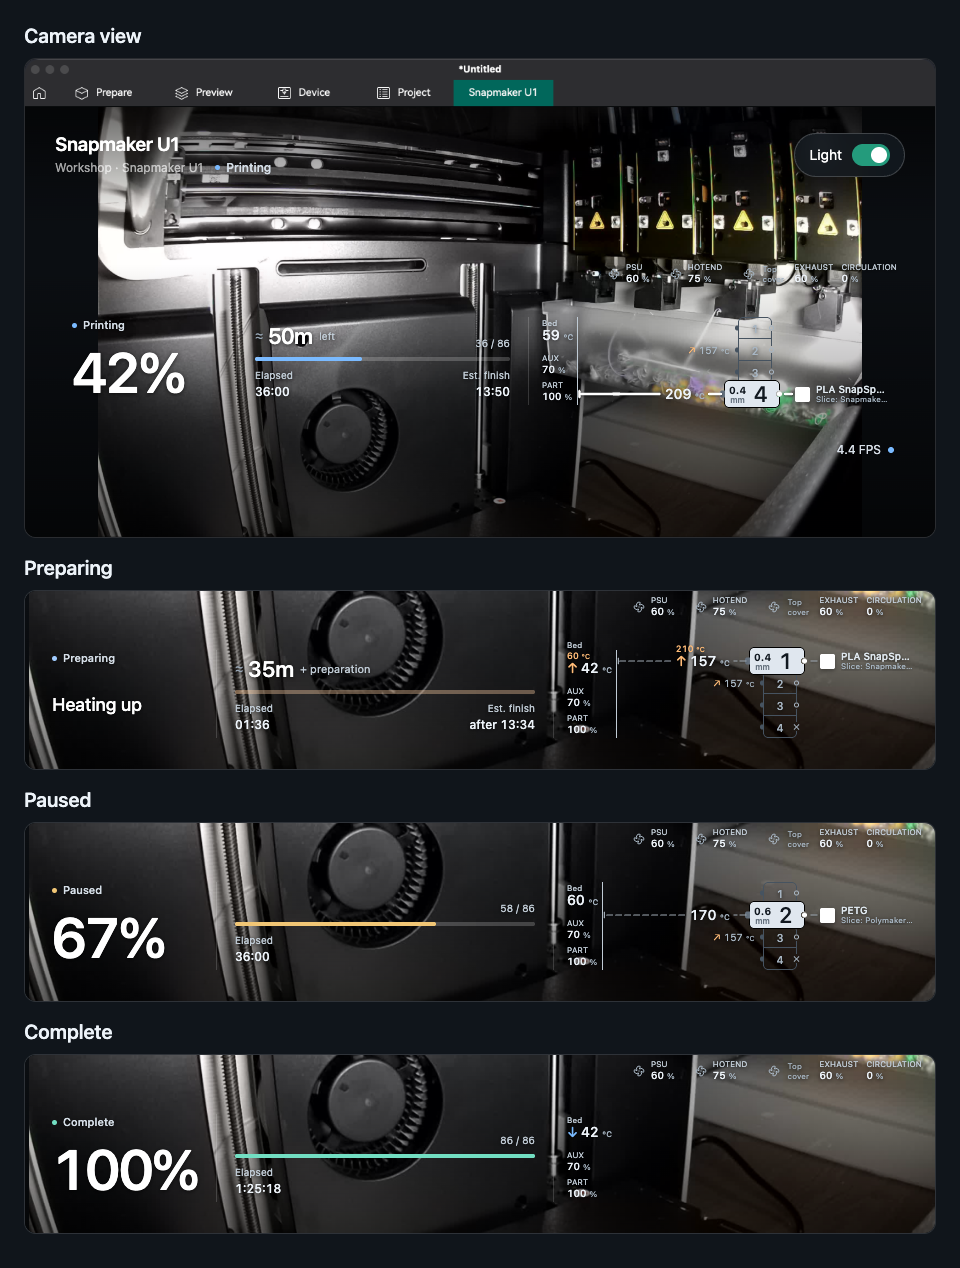
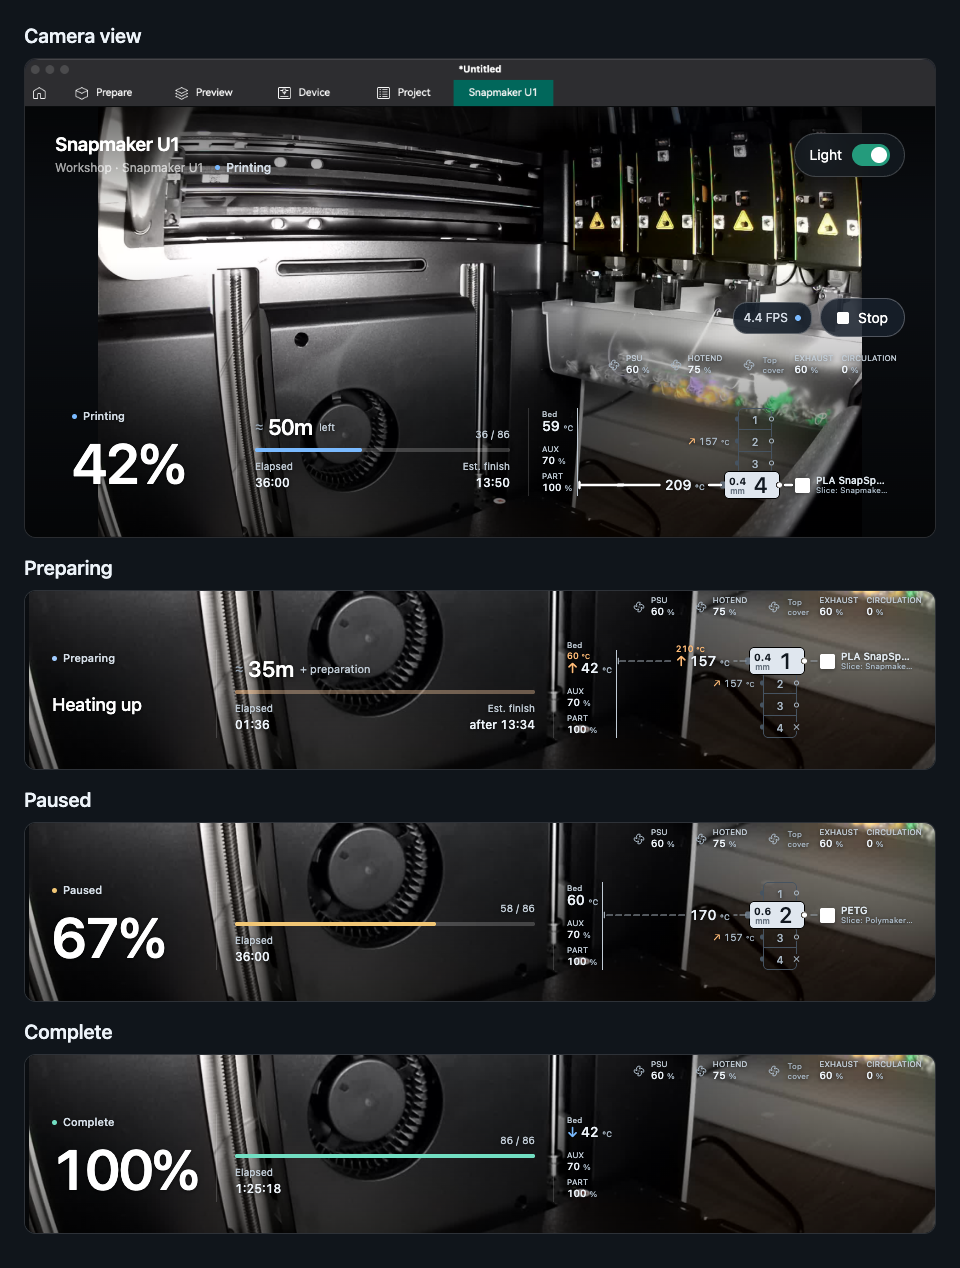
docs: move showcase stream controls above print statistics

diff --git a/scripts/prepare_screenshots.py b/scripts/prepare_screenshots.py
@@ -297,7 +297,17 @@ body { --viewer-top:calc(100vw * .05231144); }
     for state in STATES:
         view = page.replace("__SCREENSHOT_STATE__", json.dumps(state))
         (output / (state + ".html")).write_text(authorize_preview_scripts(view))
-        if state != "printing":
+        if state == "printing":
+            showcase_style = """<style>
+body .viewer footer { grid-template-columns:minmax(0, 1fr); row-gap:54px; }
+body .viewer footer #stats { grid-column:1; grid-row:2; }
+body .viewer footer .stream-controls { grid-column:1; grid-row:1; flex-direction:row; align-items:center; max-width:100%; }
+body .viewer #stop { opacity:1; }
+body .viewer #camera { background:#17202be8; border-color:#ffffff40; }
+</style>"""
+            (output / "printing-showcase.html").write_text(authorize_preview_scripts(view.replace(
+                "</head>", showcase_style + "</head>")))
+        else:
             (output / (state + "-stats.html")).write_text(authorize_preview_scripts(view.replace(
                 "</head>", "<style>.stream-controls { display:none !important; }</style></head>")))
     options = "".join('<button type="button" data-preview-state="' + state +
@@ -350,7 +360,7 @@ iframe { display:block; border:0; background:#0b0e12; }
 .crop { position:relative; height:180px; overflow:hidden; border:1px solid #ffffff20; border-radius:12px; }
 .crop iframe { position:absolute; width:1100px; height:650px; left:-20px; bottom:-10px; }
 @media(max-width:650px) { body { padding:16px; } .crop { height:420px; } }
-</style></head><body><section class="hero"><h2>Camera view</h2><iframe title="Simulated Orca camera tab" src="printing.html"></iframe></section>''' + tiles + '</body></html>')
+</style></head><body><section class="hero"><h2>Camera view</h2><iframe title="Simulated Orca camera tab" src="printing-showcase.html"></iframe></section>''' + tiles + '</body></html>')
     return entry
 
 
